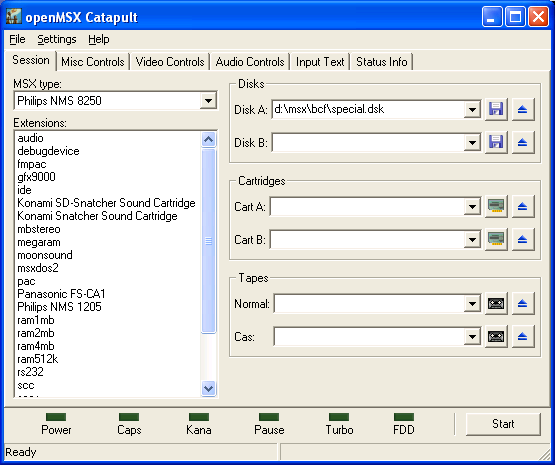
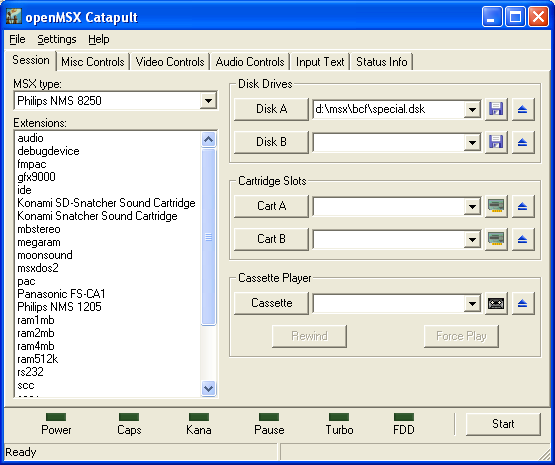
updated user manual
git-svn-id: file:///openmsx-svn/code/wxcatapult/trunk@9005 7512d703-071c-0410-b5c2-d2bdd895b7d1

diff --git a/doc/manual/user.html b/doc/manual/user.html
@@ -65,7 +65,7 @@
 The latest version of the openMSX Catapult manual can be found on the openMSX home page:
 </p>
 <p>
-<a class="external" href="http://openmsx.sourceforge.net/manual-catapult/">http://openmsx.sourceforge.net/manual-catapult/</a>
+<a class="external" href="http://openmsx.sourceforge.net/catapult-manual/">http://openmsx.sourceforge.net/catapult-manual/</a>
 </p>
 <p>
 The latest version of the openMSX manual can also be found there:
@@ -144,6 +144,10 @@ Initial version.
 <dt>2004-10-05: Herman Oudejans</dt>
 <dd>
 Updated for version 0.5.0
+</dd>
+<dt>2005-02-07 Herman Oudejans</dt>
+<dd>
+Updated for version 0.5.1
 </dd>
 
 </dl>
@@ -270,8 +274,8 @@ The global section can be found in the bottom of the Catapult screen. It
 contains the Start/Stop button to start or stop openMSX. It also contains a 
 representation of the LEDs of the MSX. Not all MSX machines have these LEDs, so 
 don't be alarmed if some LEDs don't appear to be working. At the bottom of this 
-section, you can find the status bar. It displays information about whether or not openMSX is running and the number of frames openMSX displayed per second
-(fps).
+section, you can find the status bar. It displays information about whether or 
+not openMSX is running and the number of frames openMSX displayed per second (fps).
 </p>
 
 <h2><a id="session">4. Using the Session Page</a></h2>
@@ -311,8 +315,11 @@ but openMSX might make a problem. Some problems that can occur are:
 
 <ul>
 <li>too many extensions need a cartridge slot. There are a limited amount of
-such slots available (most machines have only two of them). You can increase the number of cartridge slots by also selecting the slot expander extension.</li>
-<li>two or more selected extensions are basically the same. This will cause I/O port conflicts in the MSX machine, which you will be warned for by openMSX in the Status Page.</li> 
+such slots available (most machines have only two of them). You can increase 
+the number of cartridge slots by also selecting the slot expander extension.</li>
+<li>two or more selected extensions are basically the same. This will cause 
+I/O port conflicts in the MSX machine, which you will be warned for by openMSX 
+in the Status Page.</li> 
 </ul>
 
 <p>
@@ -333,7 +340,7 @@ types of media you can use:
 Most MSX2 or higher machines are equipped with one or more disk drives.
 Moreover, openMSX supports a few external drive controllers as extensions. If a
 machine doesn't have a disk drive and no such extension was added, Catapult
-still lets you use these field. openMSX, however, will in this case ignore the
+still lets you use these fields. openMSX, however, will in this case ignore the
 value filled in. Disks can be changed while openMSX is running (see below).
 </dd>
 <dt>cartridges:</dt>
@@ -344,21 +351,25 @@ controls will be grayed out (disabled).
 </dd>
 <dt>cassettes (tapes):</dt>
 <dd>
-Most MSX1 computers depend on a tape recorder (or data recorder) and almost all other MSX computers support cassette as well. Like using disks, when a machine
-doesn't support cassette you can still fill in these fields. openMSX will just
-ignore them. As can be seen on the picture above, there are two kinds of tape.
-The first is called 'normal tape' in Catapult, which accepts wav-files as input.
-These normally require plugging in a cassette player, but Catapult takes care of
-that if this type of tape is used. The second is called 'Cas'. this accepts a
-.cas-file (a binary representation of the cassette). Note that the 'normal tape' field also accepts .cas files, they will be converted to .wav internally by openMSX. See the <a class="external"
-href="http://openmsx.sourceforge.net/manual/user.html#tape">openMSX User's Manual</a> for more information about using cassettes.
+Most MSX1 computers depend on a tape recorder (or data recorder) and almost 
+all other MSX computers support cassette as well. Like using disks, when a machine
+doesn't support cassette you can still fill in these field. openMSX will just
+ignore it. In this field you can input wav-files (cassette sounds) or cas-files
+(a binary representation of the cassette). Both require plugging in a cassette 
+player, but Catapult takes care of that automaticaly. Below the cassette input, there 
+are two more buttons. 'Rewind' let's you simply rewind the tape to the start and
+'Force Play' controls the cassette motor. If force play is active, openMSX only 
+switches the cassette motor on while it's loading. If it's inactive, the cassette
+motor will always stay on. See the 
+<a class="external" href="http://openmsx.sourceforge.net/manual/user.html#tape">openMSX User's Manual</a> 
+for more information about using cassettes.
 </dd>
 </dl>
 
 <p>
-Every media input box is equipped with a history.
-Just click on the down arrow to open the history.
-This way you can easily select the most recently used files.
+Every media input box is equipped with a history. Just click on the down arrow to
+open the history. This way you can easily select the most recently used files.
+Catapult remembers the last 25 items of each media field.
 </p>
 
 <p>
@@ -367,6 +378,48 @@ media. The buttons on the left of these groups present a file selection window,
 in which you can select which media file should be used. The buttons on the 
 right are to eject media. No conformation is asked for this.
 </p>
+
+<p>The buttons left of the media field can be used to show a popup menu with 
+some extra options. Options shown in these popups are:
+</p>
+
+<dl>
+<dt>Browse for disk file/cartridge/cassette</dt>
+<dd>This options are the same as using the browse buttons on the right of the media fields</dd>
+<dt>Browse for disk folder (disks only)</dt>
+<dd>
+Instead of selecting a specific disk file, you can also select a complete directory.
+This option is in openMSX known as DirAsDisk. Please check the 
+<a class="external" href="http://openmsx.sourceforge.net/manual/user.html#tape">openMSX User's Manual</a> 
+for the limits using this feature.
+</dd>
+<dt>Eject disk/cartridge/cassette</dt>
+<dd>This options are the same as using the eject buttons on the right of the media fields</dd>
+<dt>Select IPS Patches (disks and cartridges)</dt>
+<dd>
+Instead of inserted a trained or translated disk- or romimage, you can also add
+one or more patches which will be applied after loading the image. Choosing this option
+results in a special dialog in which you can add or remove patches and change the order
+of the patches. The patches are always applied in the order shown. If openMSX is running,
+diskpatches are immediately applied when selected. This menu item will show the number of
+patches selected.
+</dd>
+<dt>Selected cartridge type (cartridges only)</dt>
+<dd>
+If a cartridge is not available in the rom databases and openMSX can't detect the type
+properly, you can use this option to force a cartridge type. Please contact us if you find 
+rom images that are incorrectly detected. See <a class="internal" href="#contact">9. Contact Info</a>
+for this. This menu item always shows a short representation of the type selected.
+</dd>
+<dt>Rewind cassette (cassette only)</dt>
+<dd>Choosing this option is the same as pressing the 'Rewind' button</dd>
+<dt>Force play (cassette only)</dt>
+<dd>This option is the same as pressing the 'Force play' button</dd>
+</dl>
+
+
+
+
 
 <h3><a id="updating">4.3. Updating Media</a></h3>
 
@@ -766,7 +819,7 @@ bug or request.
 </p>
 
 <p class="version">
-$Id: user.html,v 1.9 2004/10/12 19:48:17 h_oudejans Exp $
+$Id: user.html,v 1.10 2004/10/12 20:10:27 manuelbi Exp $
 </p>
 
 </body>
